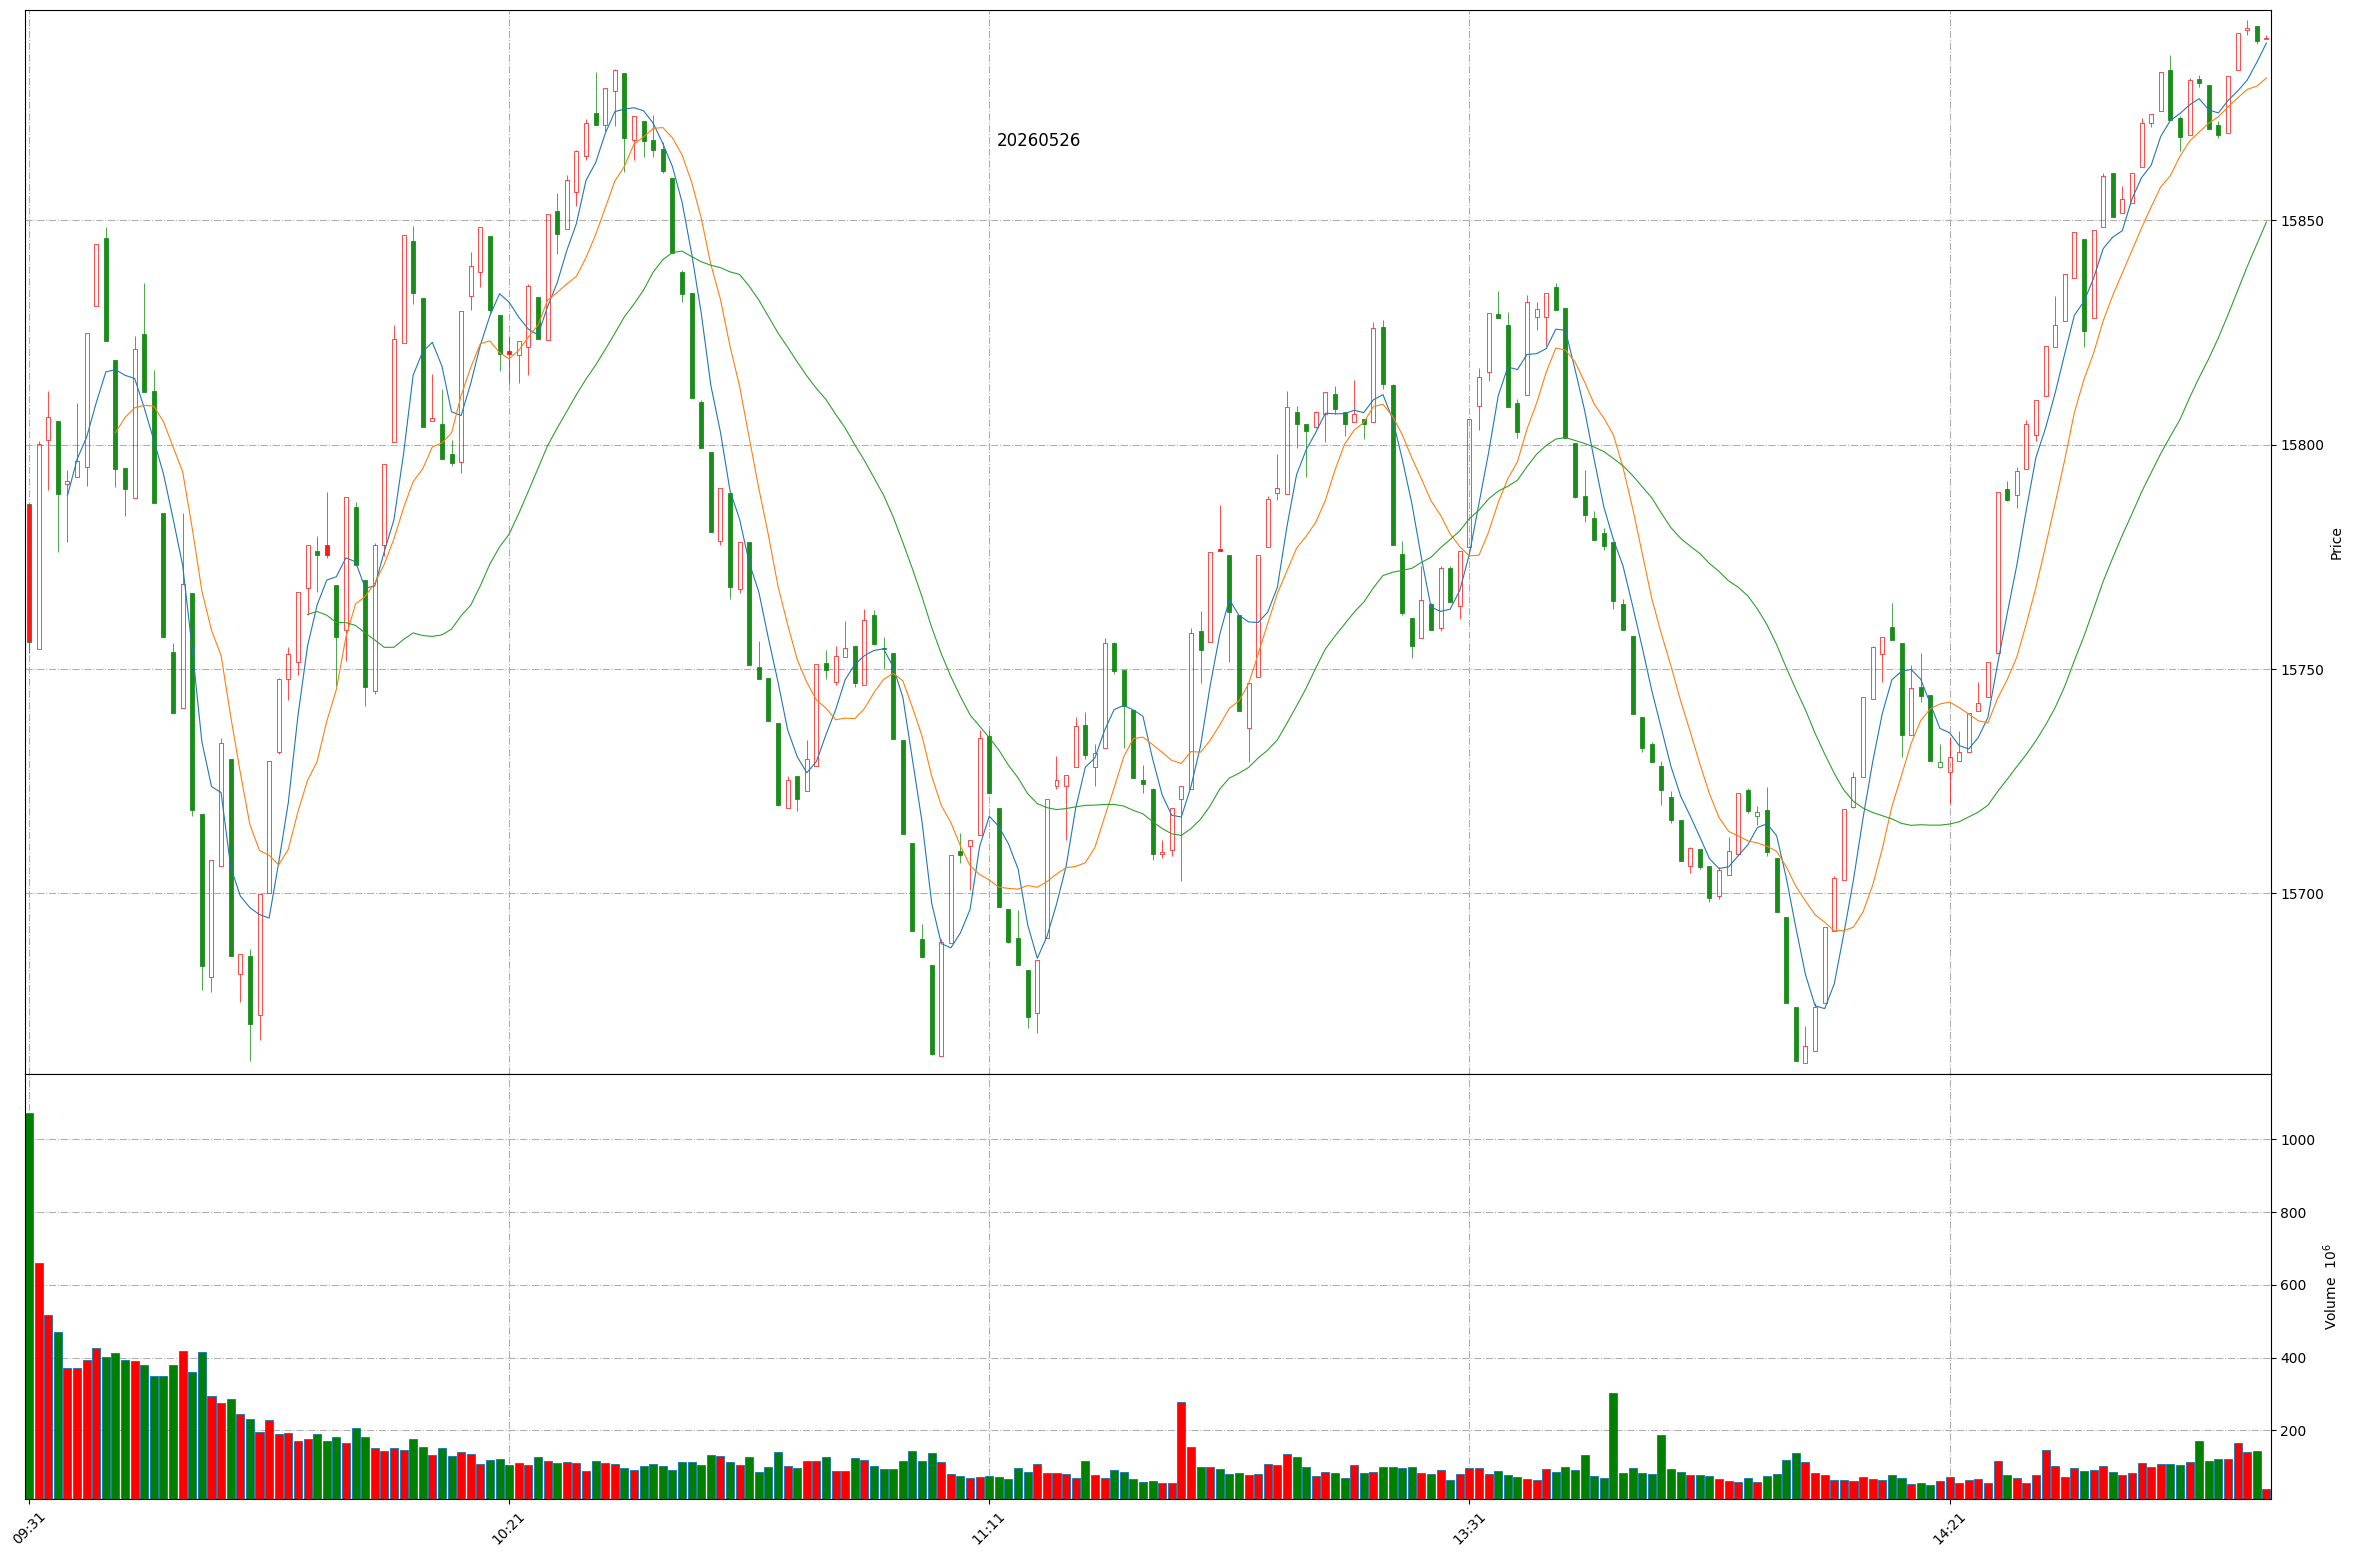
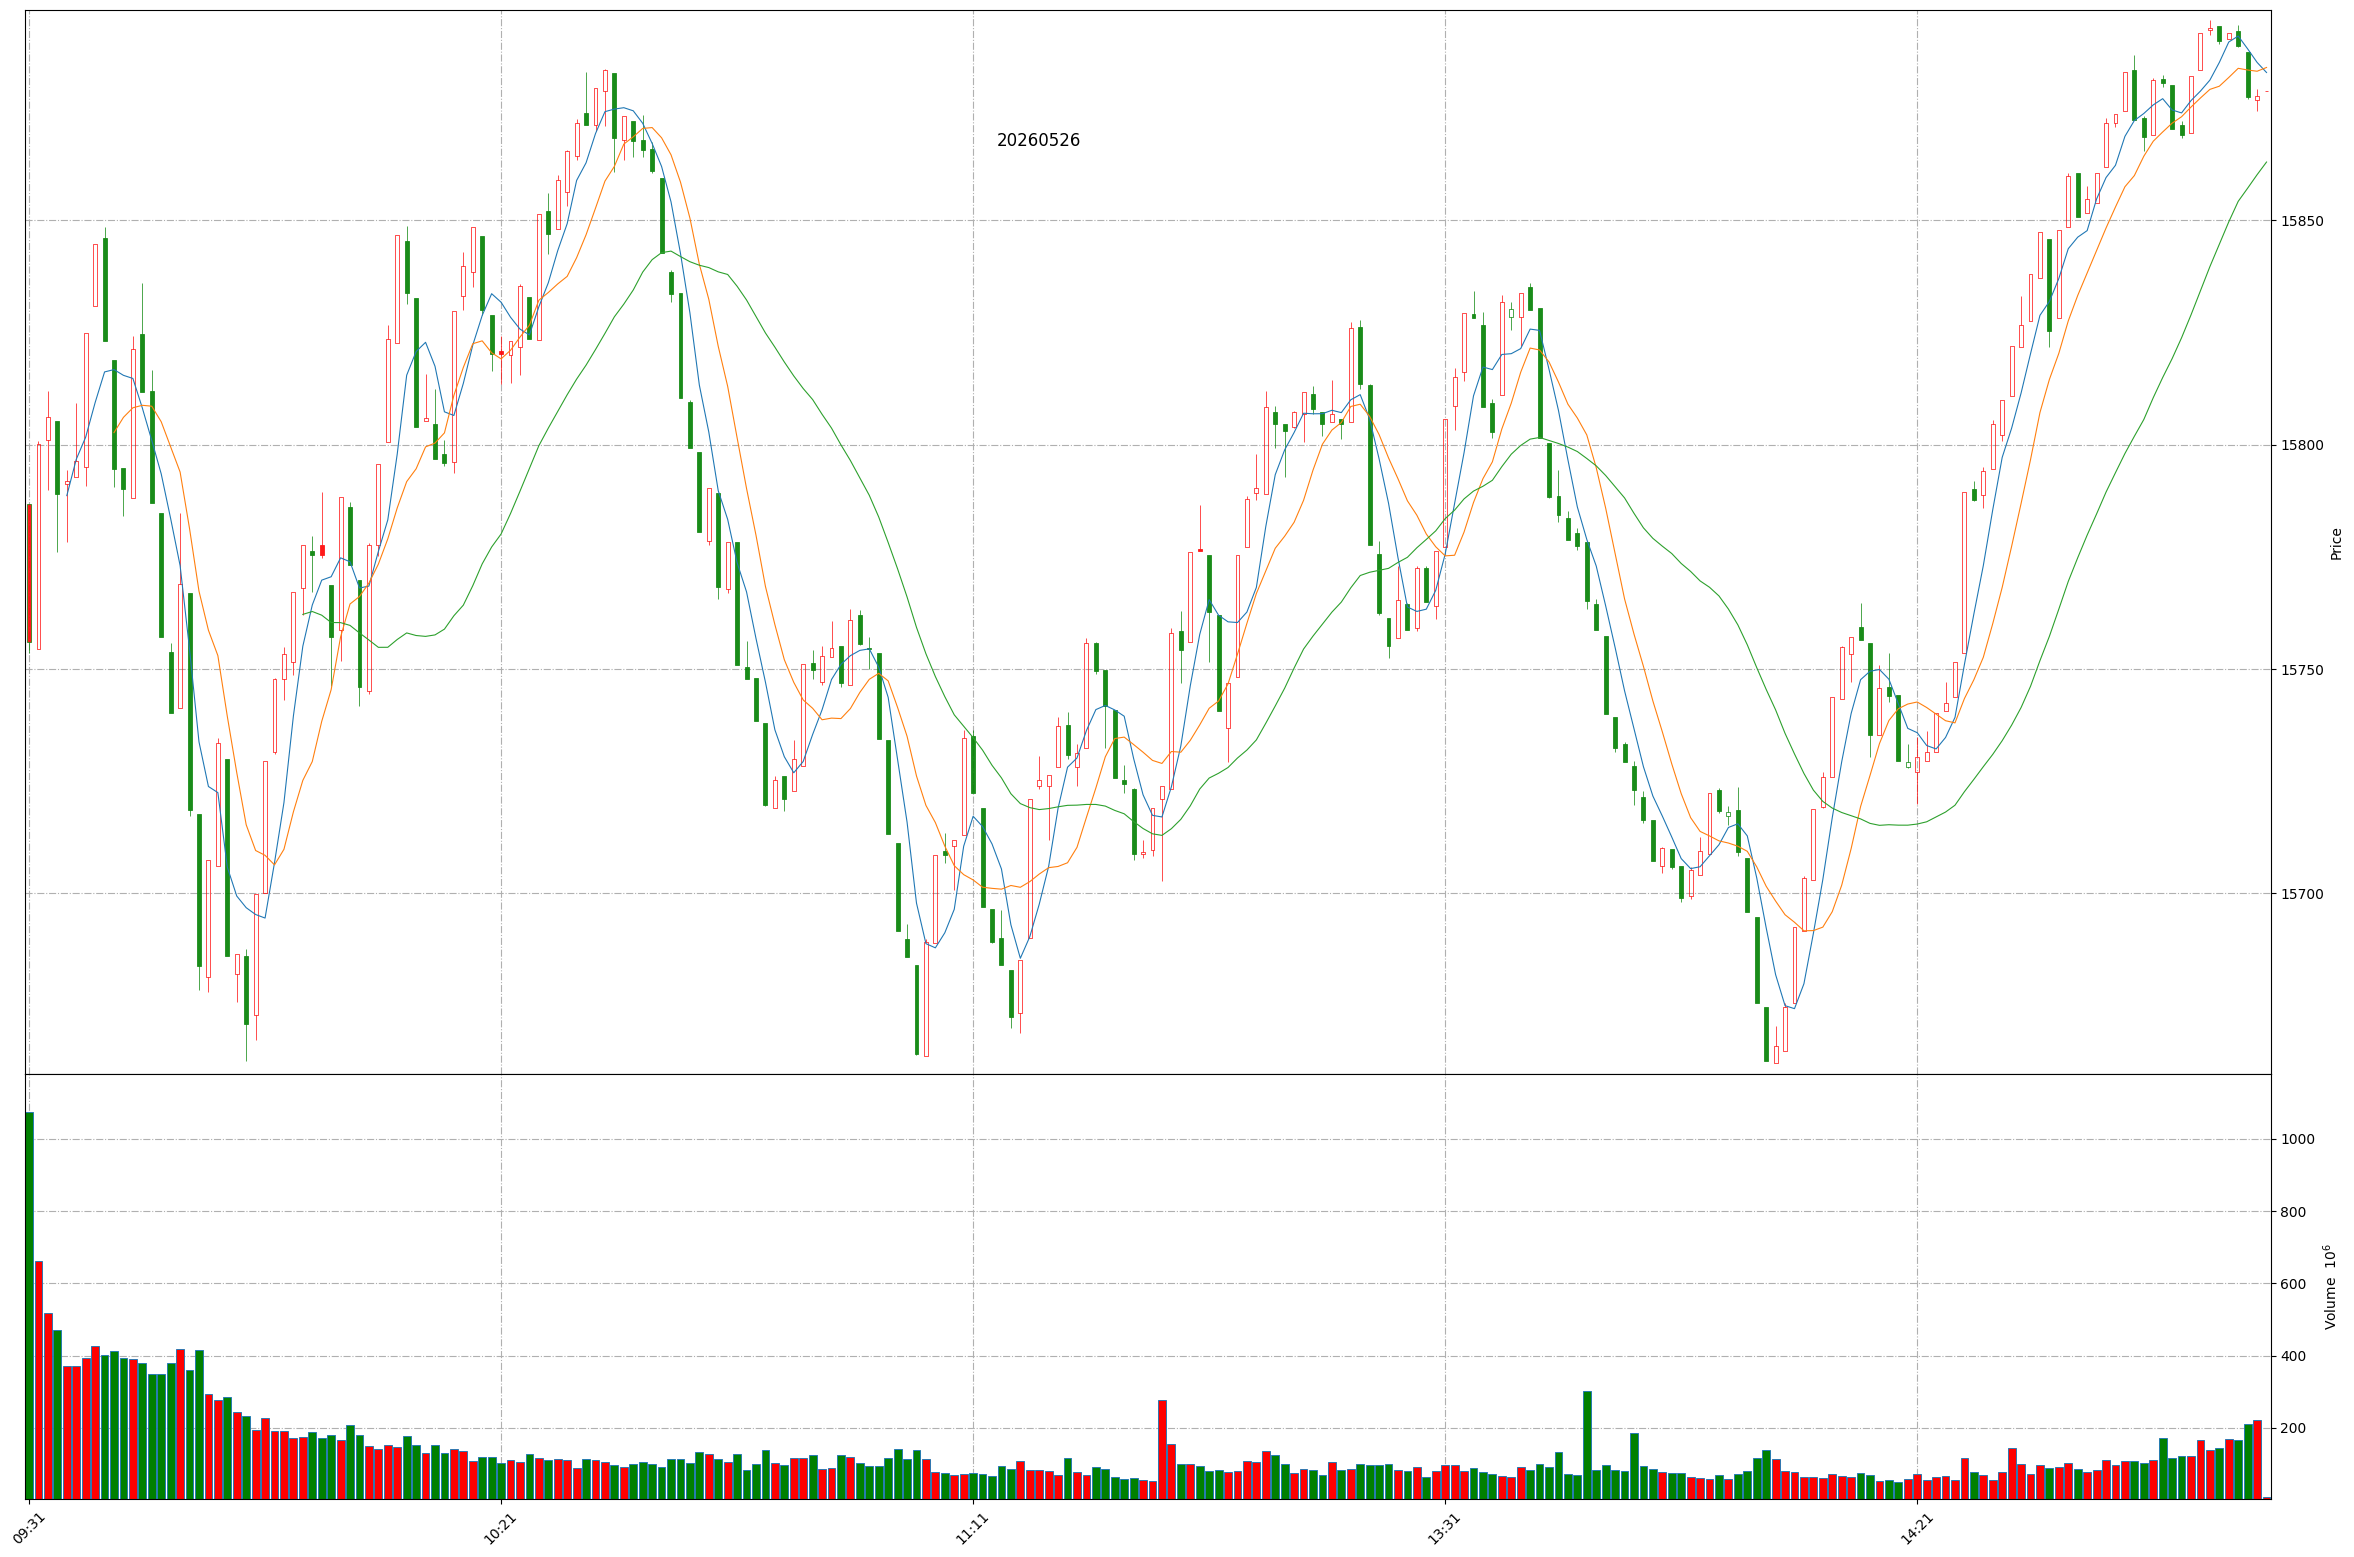
Github action update at 2026-05-26 14:57:36.

diff --git a/README.md b/README.md
@@ -1,11 +1,11 @@
 
 # Daily-A-share-market-quotes 每日 A 股指数（5min 更新）- 20260526
 
-### 上证指数 20260526 14:53
+### 上证指数 20260526 14:57
 ![](./fig/2026/5/20260526-sh000001.png)
 
-### 深证成指 20260526 14:53
+### 深证成指 20260526 14:57
 ![](./fig/2026/5/20260526-sz399001.png)
 
-### 北证50 20260526 14:53
+### 北证50 20260526 14:57
 ![](./fig/2026/5/20260526-bj899050.png)
